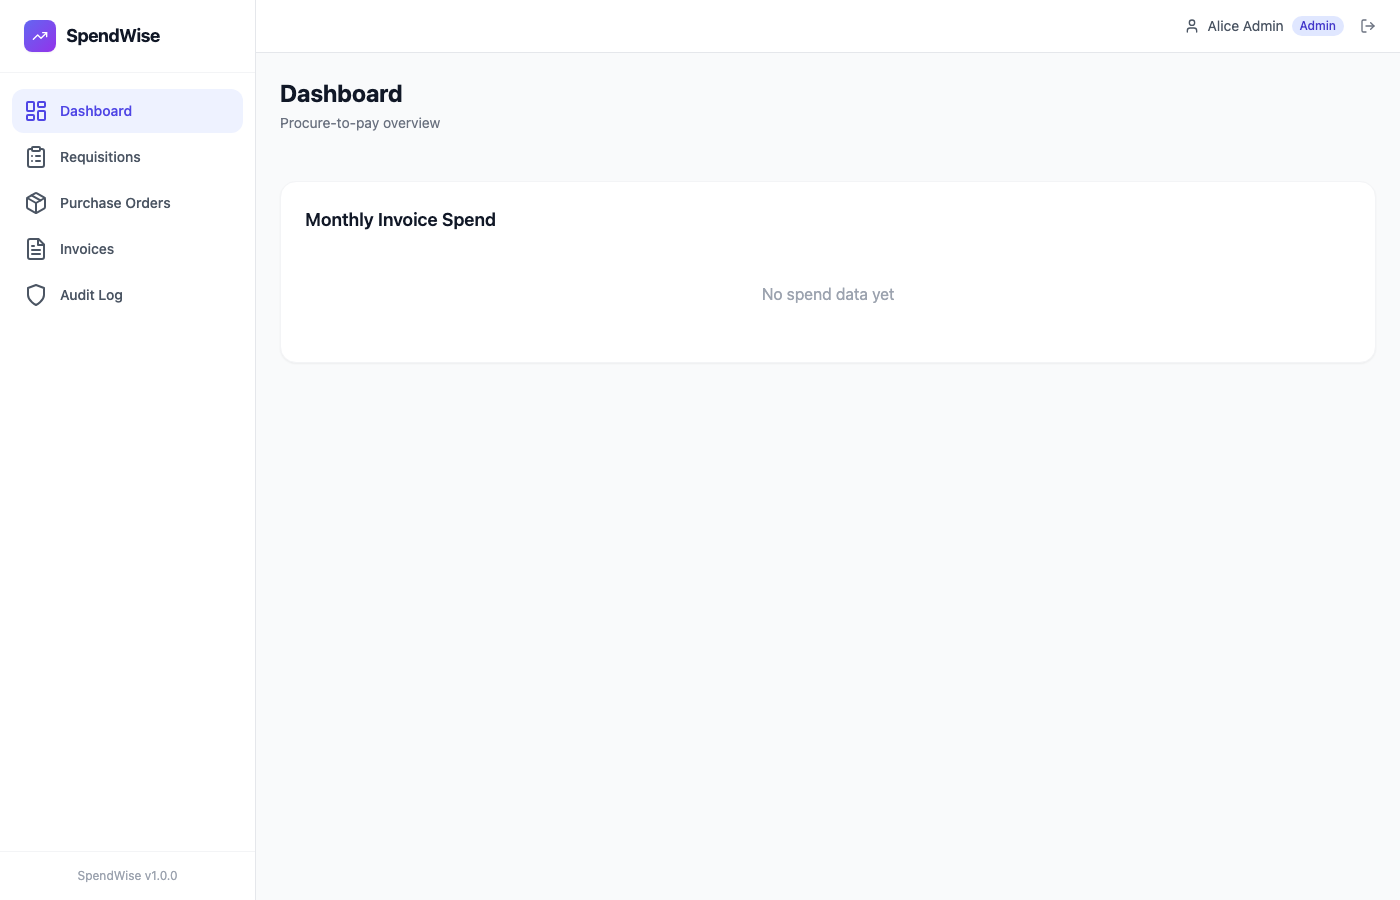
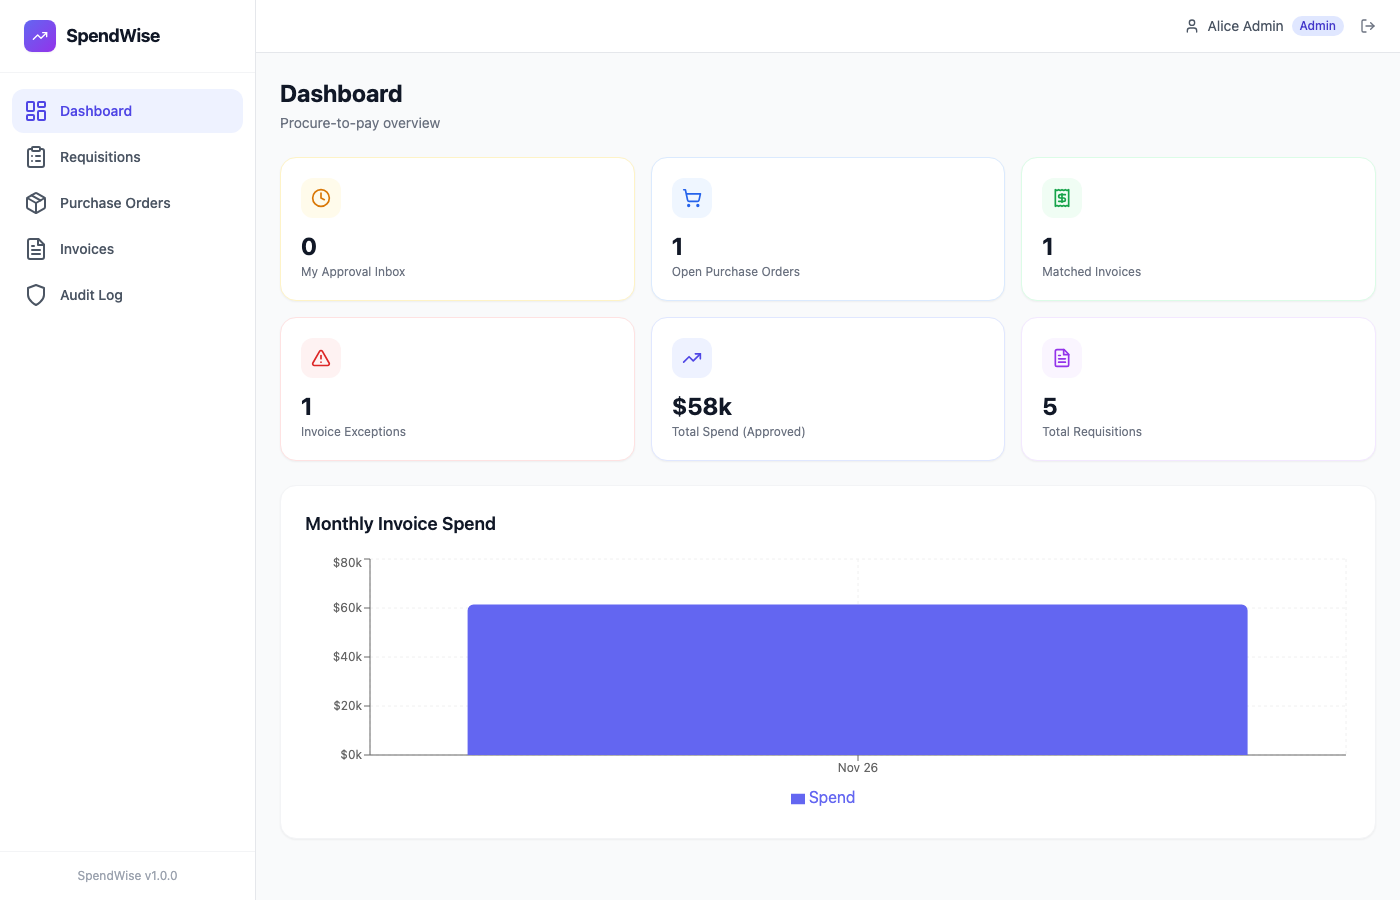
feat: fix dashboard stats API and expand screenshot gallery
- Fix dashboard spend_by_month: wrap DATE_TRUNC in Arel.sql() for
  Rails 8.1 strict SQL mode — dashboard now shows all 6 KPI cards
  and the monthly spend bar chart
- Replace login screenshot with real functionality screenshots (10 total):
  dashboard KPIs, requisitions list, pending approval rows, high-value
  requisition, POs, invoices with 3-way match badges, exception/matched
  invoice rows, audit log full and filtered views
- Update README screenshot grid to showcase actual app functionality

diff --git a/app/controllers/api/v1/dashboard_controller.rb b/app/controllers/api/v1/dashboard_controller.rb
@@ -46,8 +46,8 @@ module Api
       def spend_by_month
         Invoice.where(tenant: current_user.tenant)
                .where("invoice_date >= ?", 6.months.ago)
-               .group("DATE_TRUNC('month', invoice_date)")
-               .order("DATE_TRUNC('month', invoice_date)")
+               .group(Arel.sql("DATE_TRUNC('month', invoice_date)"))
+               .order(Arel.sql("DATE_TRUNC('month', invoice_date)"))
                .sum(:total_amount)
                .map { |month, total| { month: month, total: total } }
       end

diff --git a/README.md b/README.md
@@ -25,17 +25,25 @@
 
 ## 📸 Screenshots
 
-| Login | Dashboard |
-|-------|-----------|
-| ![Login](screenshots/01_login.png) | ![Dashboard](screenshots/02_dashboard.png) |
+| Dashboard — KPI Cards + Spend Chart | Requisitions — Approval Inbox |
+|--------------------------------------|-------------------------------|
+| ![Dashboard](screenshots/01_dashboard.png) | ![Requisitions](screenshots/02_requisitions.png) |
 
-| Requisitions (Approval Inbox) | Purchase Orders |
-|-------------------------------|-----------------|
-| ![Requisitions](screenshots/03_requisitions.png) | ![Purchase Orders](screenshots/04_purchase_orders.png) |
+| Pending Approval (Multi-Level) | High-Value Requisition ($120k) |
+|--------------------------------|-------------------------------|
+| ![Pending Approval](screenshots/03_requisition_pending_approval.png) | ![High Value](screenshots/07_requisition_high_value.png) |
 
-| Invoices (3-Way Match Status) | Audit Log |
-|-------------------------------|-----------|
-| ![Invoices](screenshots/05_invoices.png) | ![Audit Log](screenshots/06_audit_log.png) |
+| Purchase Orders | Invoices — 3-Way Match Status |
+|-----------------|-------------------------------|
+| ![Purchase Orders](screenshots/04_purchase_orders.png) | ![Invoices](screenshots/05_invoices_3way_match.png) |
+
+| Invoice Exception (Price Variance) | Invoice Matched |
+|------------------------------------|-----------------|
+| ![Exception](screenshots/08_invoice_exception.png) | ![Matched](screenshots/09_invoice_matched.png) |
+
+| Audit Log — All Events | Audit Log — Filtered by Resource |
+|------------------------|----------------------------------|
+| ![Audit Log](screenshots/06_audit_log.png) | ![Audit Log Filtered](screenshots/10_audit_log_filtered.png) |
 
 ---
 
